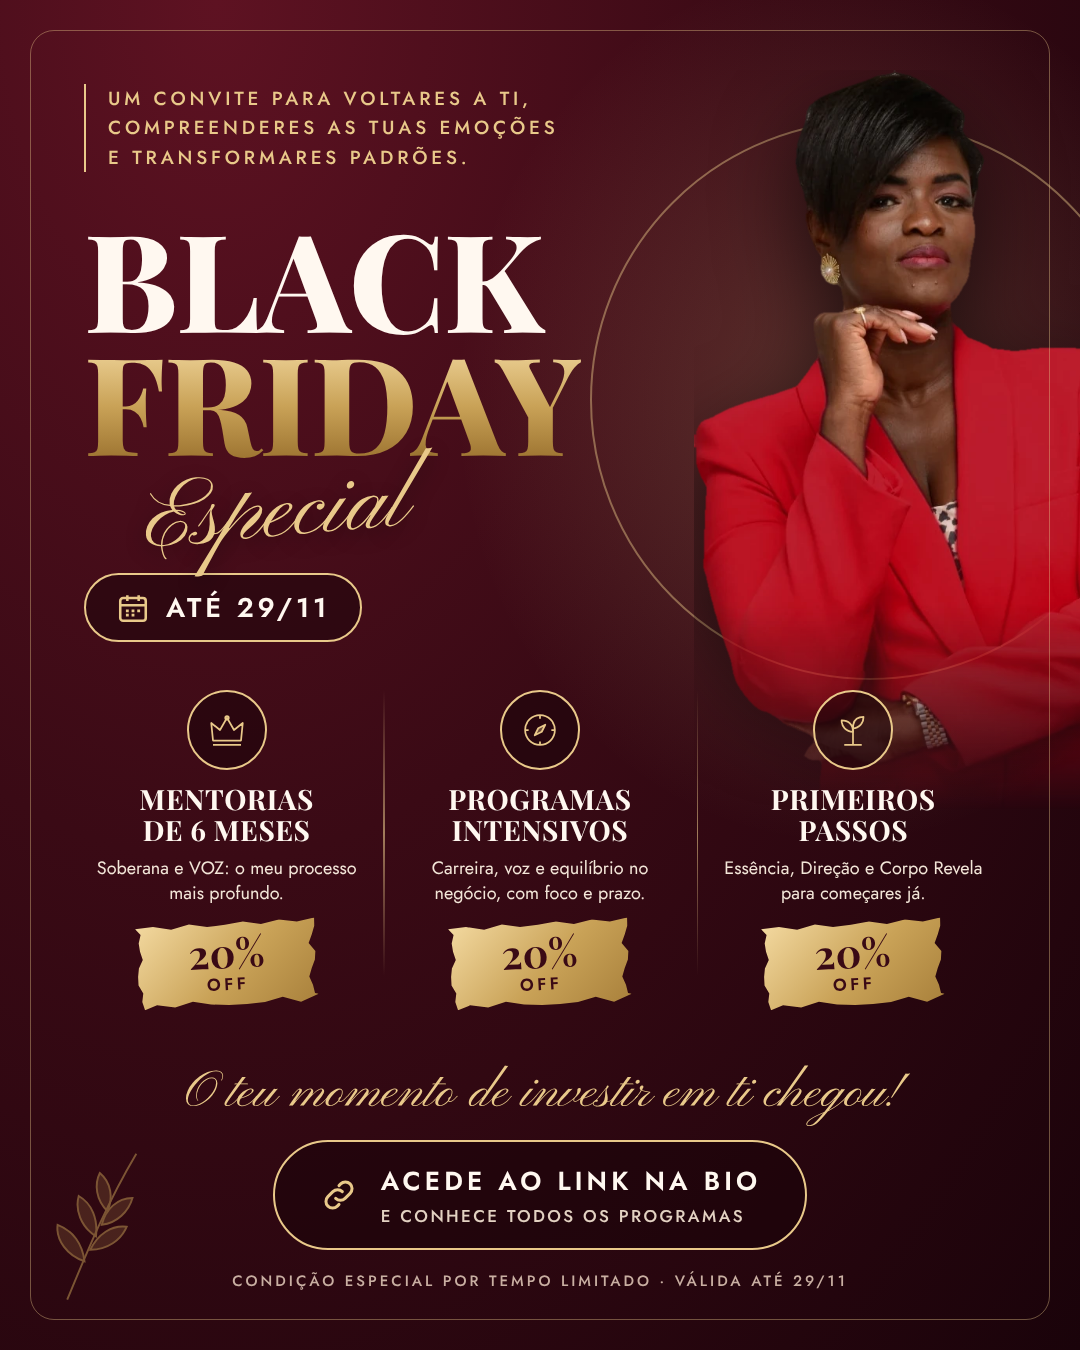
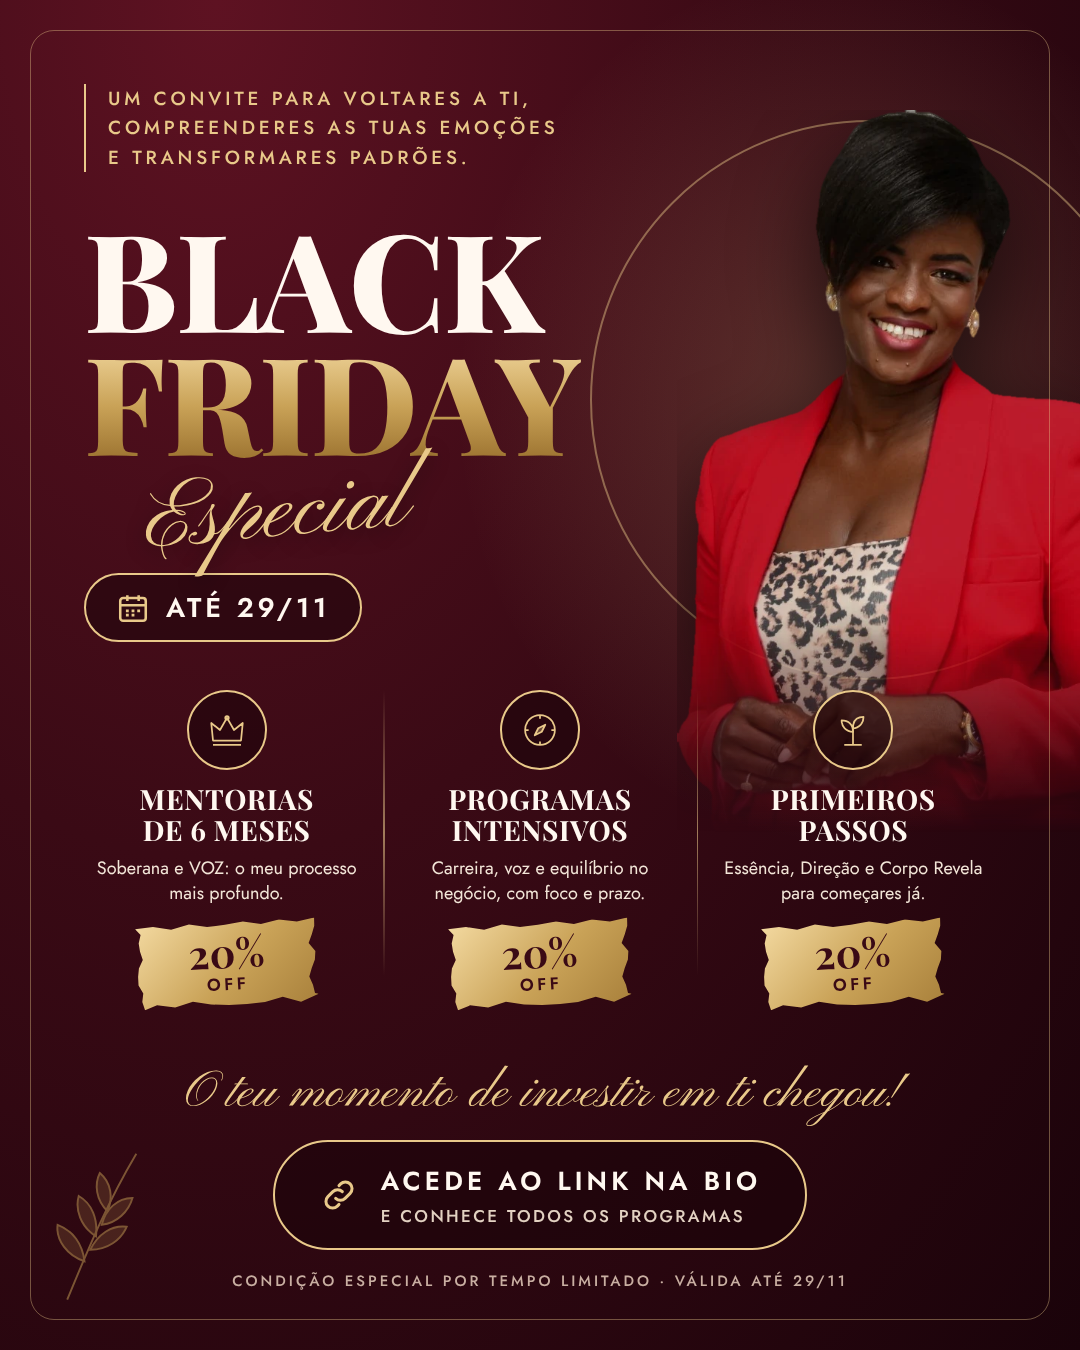
Black Friday post: use smiling photo
Claude-Session: https://claude.ai/code/session_01LHQJ2mQGDsvNSWxv53LoAn

Changed region(s): [[0.6111, 0.0311, 1.0, 0.5911], [0.8861, 0.4044, 0.9167, 0.4356]]

diff --git a/carrossel/post-black-friday.html b/carrossel/post-black-friday.html
@@ -8,7 +8,7 @@ body{background:#111;padding:40px}
 .post{position:relative;width:1080px;height:1350px;overflow:hidden;color:#FFF8F0;font-family:Jost,Arial,sans-serif;
  background:radial-gradient(ellipse 55% 50% at 78% 30%,rgba(233,201,138,.22),transparent 65%),radial-gradient(ellipse at 20% 0%,#5E1222,#3A0A15 45%,#1A030A 100%)}
 .post::after{content:"";position:absolute;inset:30px;border:1.5px solid rgba(233,201,138,.4);border-radius:24px;pointer-events:none;z-index:6}
-.foto{position:absolute;right:-150px;top:70px;height:860px;z-index:1;filter:drop-shadow(0 30px 40px rgba(0,0,0,.6));-webkit-mask-image:linear-gradient(#000 62%,transparent 86%);mask-image:linear-gradient(#000 62%,transparent 86%)}
+.foto{position:absolute;right:-110px;top:110px;height:840px;z-index:1;filter:drop-shadow(0 30px 40px rgba(0,0,0,.6));-webkit-mask-image:linear-gradient(#000 62%,transparent 86%);mask-image:linear-gradient(#000 62%,transparent 86%)}
 .anel{position:absolute;right:-70px;top:120px;width:560px;height:560px;border:2px solid rgba(233,201,138,.45);border-radius:50%;z-index:0}
 .conteudo{position:relative;z-index:3;padding:84px 0 0 84px;width:640px}
 .intro{display:flex;gap:22px;font:500 19px/1.55 Jost;letter-spacing:.2em;text-transform:uppercase;color:#E9C98A}
@@ -40,7 +40,7 @@ h1 .f{display:block;background:linear-gradient(180deg,#F3D9A0,#C9A257 55%,#9C733
 </style></head><body>
 <section class="post" id="post">
 <div class="anel"></div>
-<img class="foto" src="../fotos/recortes/sollange-vermelho-pose.webp" alt="">
+<img class="foto" src="../fotos/recortes/sollange-vermelho-sorriso.webp" alt="">
 <svg class="folha" viewBox="0 0 100 160" fill="none" stroke="#C9A257" stroke-width="2"><path d="M20 158 C40 110 60 60 92 6"/><path d="M38 118 C20 112 8 96 10 80 C26 86 36 100 38 118Z" fill="rgba(201,162,87,.35)"/><path d="M50 92 C34 82 28 64 32 50 C46 58 52 74 50 92Z" fill="rgba(201,162,87,.35)"/><path d="M62 66 C50 54 48 38 54 26 C66 36 68 52 62 66Z" fill="rgba(201,162,87,.35)"/><path d="M44 106 C62 106 76 96 82 82 C66 80 52 90 44 106Z" fill="rgba(201,162,87,.35)"/><path d="M56 80 C72 78 84 66 88 52 C72 52 60 64 56 80Z" fill="rgba(201,162,87,.35)"/></svg>
 
 <div class="conteudo">
